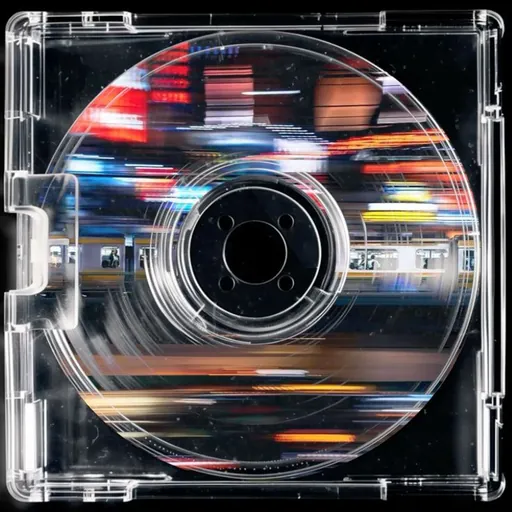
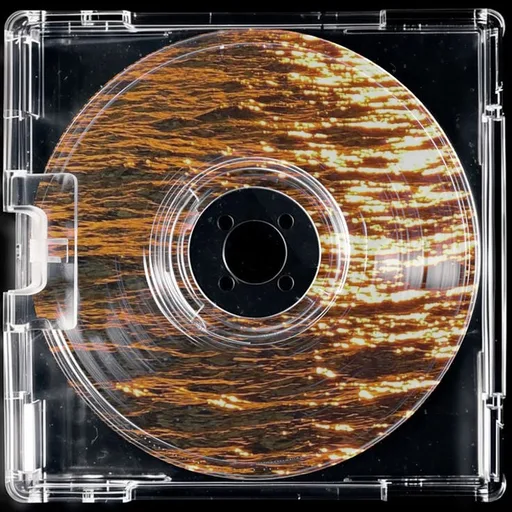
Portadas: reemplazar 6 conflictivas y anadir d101-d119 (Bloque III)
- d5/d26/d33/d55/d80/d81: imagenes nuevas, color no conflictivo con el color picker
- d101-d119: portadas para 19 optativas del Bloque III que no tenian archivo de imagen
- Invalida cache de color (ukishima_vibrant25 -> 26) en avance/libros/estadisticas para que se recalcule
- SW: precache extendido a d0-d159, cache v228

diff --git a/assets/js/avance/avance.js b/assets/js/avance/avance.js
@@ -93,14 +93,14 @@ function _extractVibrant(imgEl) {
 }
 
 function _vibrantCache() {
-  try { return JSON.parse(localStorage.getItem('ukishima_vibrant25') || '{}'); }
+  try { return JSON.parse(localStorage.getItem('ukishima_vibrant26') || '{}'); }
   catch { return {}; }
 }
 
 function _saveVibrant(src, hex) {
   try {
     var vc = _vibrantCache(); vc[src] = hex;
-    localStorage.setItem('ukishima_vibrant25', JSON.stringify(vc));
+    localStorage.setItem('ukishima_vibrant26', JSON.stringify(vc));
   } catch(e) {}
 }
 
@@ -259,7 +259,7 @@ function _colorizeAvCards() {
       try {
         var cur = _vibrantCache();
         cur[key] = hex;
-        localStorage.setItem('ukishima_vibrant25', JSON.stringify(cur));
+        localStorage.setItem('ukishima_vibrant26', JSON.stringify(cur));
       } catch(e) {}
     }
 
@@ -337,7 +337,7 @@ function _colorizeDetailHero(sub) {
   function tryExtract(imgEl) {
     var h = isTronco ? (_extractVibrantL(imgEl, 0.20, 0.75) || _extractVibrant(imgEl)) : _extractVibrant(imgEl);
     if (!h) return;
-    try { var cur = _vibrantCache(); cur[key] = h; localStorage.setItem('ukishima_vibrant25', JSON.stringify(cur)); } catch(e) {}
+    try { var cur = _vibrantCache(); cur[key] = h; localStorage.setItem('ukishima_vibrant26', JSON.stringify(cur)); } catch(e) {}
     applyDetail(h);
   }
   if (img.complete && img.naturalWidth > 0) tryExtract(img);

diff --git a/assets/js/libros/libros.js b/assets/js/libros/libros.js
@@ -110,11 +110,11 @@ function _libExtractVibrant(imgEl) {
    igual que colorizeCards() en estadisticas.html                    */
 function _colorizeLibCovers() {
   var vc;
-  try { vc = JSON.parse(localStorage.getItem('ukishima_vibrant25')||'{}'); } catch(e){ vc={}; }
+  try { vc = JSON.parse(localStorage.getItem('ukishima_vibrant26')||'{}'); } catch(e){ vc={}; }
   var pending = 0;
 
   function save() {
-    try { localStorage.setItem('ukishima_vibrant25', JSON.stringify(vc)); } catch(e){}
+    try { localStorage.setItem('ukishima_vibrant26', JSON.stringify(vc)); } catch(e){}
   }
 
   document.querySelectorAll('.book-cover-bg[data-icon], .hero-bg[data-icon]').forEach(function(coverEl) {
@@ -169,7 +169,7 @@ function palColor(subj) {
   var icon  = entry && entry.icon;
   if (icon) {
     try {
-      var hex = JSON.parse(localStorage.getItem('ukishima_vibrant25') || '{}')[icon];
+      var hex = JSON.parse(localStorage.getItem('ukishima_vibrant26') || '{}')[icon];
       if (hex) {
         var h = _libHexToH(hex);
         return 'hsla(' + h + ',75%,10%,0.50)';

diff --git a/estadisticas.html b/estadisticas.html
@@ -163,9 +163,9 @@
         chip.classList.add('loaded');
         try {
           var src = img.getAttribute('src');
-          var vc  = JSON.parse(localStorage.getItem('ukishima_vibrant25') || '{}');
+          var vc  = JSON.parse(localStorage.getItem('ukishima_vibrant26') || '{}');
           vc[src] = hex;
-          localStorage.setItem('ukishima_vibrant25', JSON.stringify(vc));
+          localStorage.setItem('ukishima_vibrant26', JSON.stringify(vc));
         } catch(e) {}
       }
       if (img.complete && img.naturalWidth > 0) { apply(); }

diff --git a/sw.js b/sw.js
@@ -1,6 +1,6 @@
 'use strict';
 
-const CACHE = 'ukishima-v227';
+const CACHE = 'ukishima-v228';
 
 // App shell crítico: si algo de esto falla, el SW no se instala
 const CORE = [
@@ -72,7 +72,7 @@ const CORE = [
 ];
 
 // Iconos de materias: best-effort, no bloquean la instalación
-const IMAGES = Array.from({ length: 101 }, (_, i) => `./assets/images/d${i}.webp`);
+const IMAGES = Array.from({ length: 160 }, (_, i) => `./assets/images/d${i}.webp`);
 
 self.addEventListener('install', e => {
   e.waitUntil(
